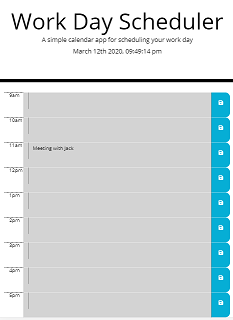
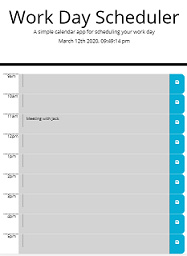
storage issues

diff --git a/script.js b/script.js
@@ -58,7 +58,7 @@ $(document).ready(function(){
 function renderDisplay() {
   //Create variable for current hour
   var currentHour = moment().format('H');
-  rememberObj = JSON.parse(localStorage.getItem("reminders"));
+  //rememberObj = JSON.parse(localStorage.getItem("reminders"));
 
   $(".container").empty();
 
@@ -130,7 +130,7 @@ function rowClicked(event) {
   var reminderTextInput = $(event.data.textAreaEl);
   console.log(reminderTextInput[0].value);
   rememberObj[event.data.rowNumber].reminder = reminderTextInput[0].value;
-  localStorage.setItem("reminders", JSON.stringify(rememberObj));
+  //localStorage.setItem("reminders", JSON.stringify(rememberObj));
   
   renderDisplay();
 } 
